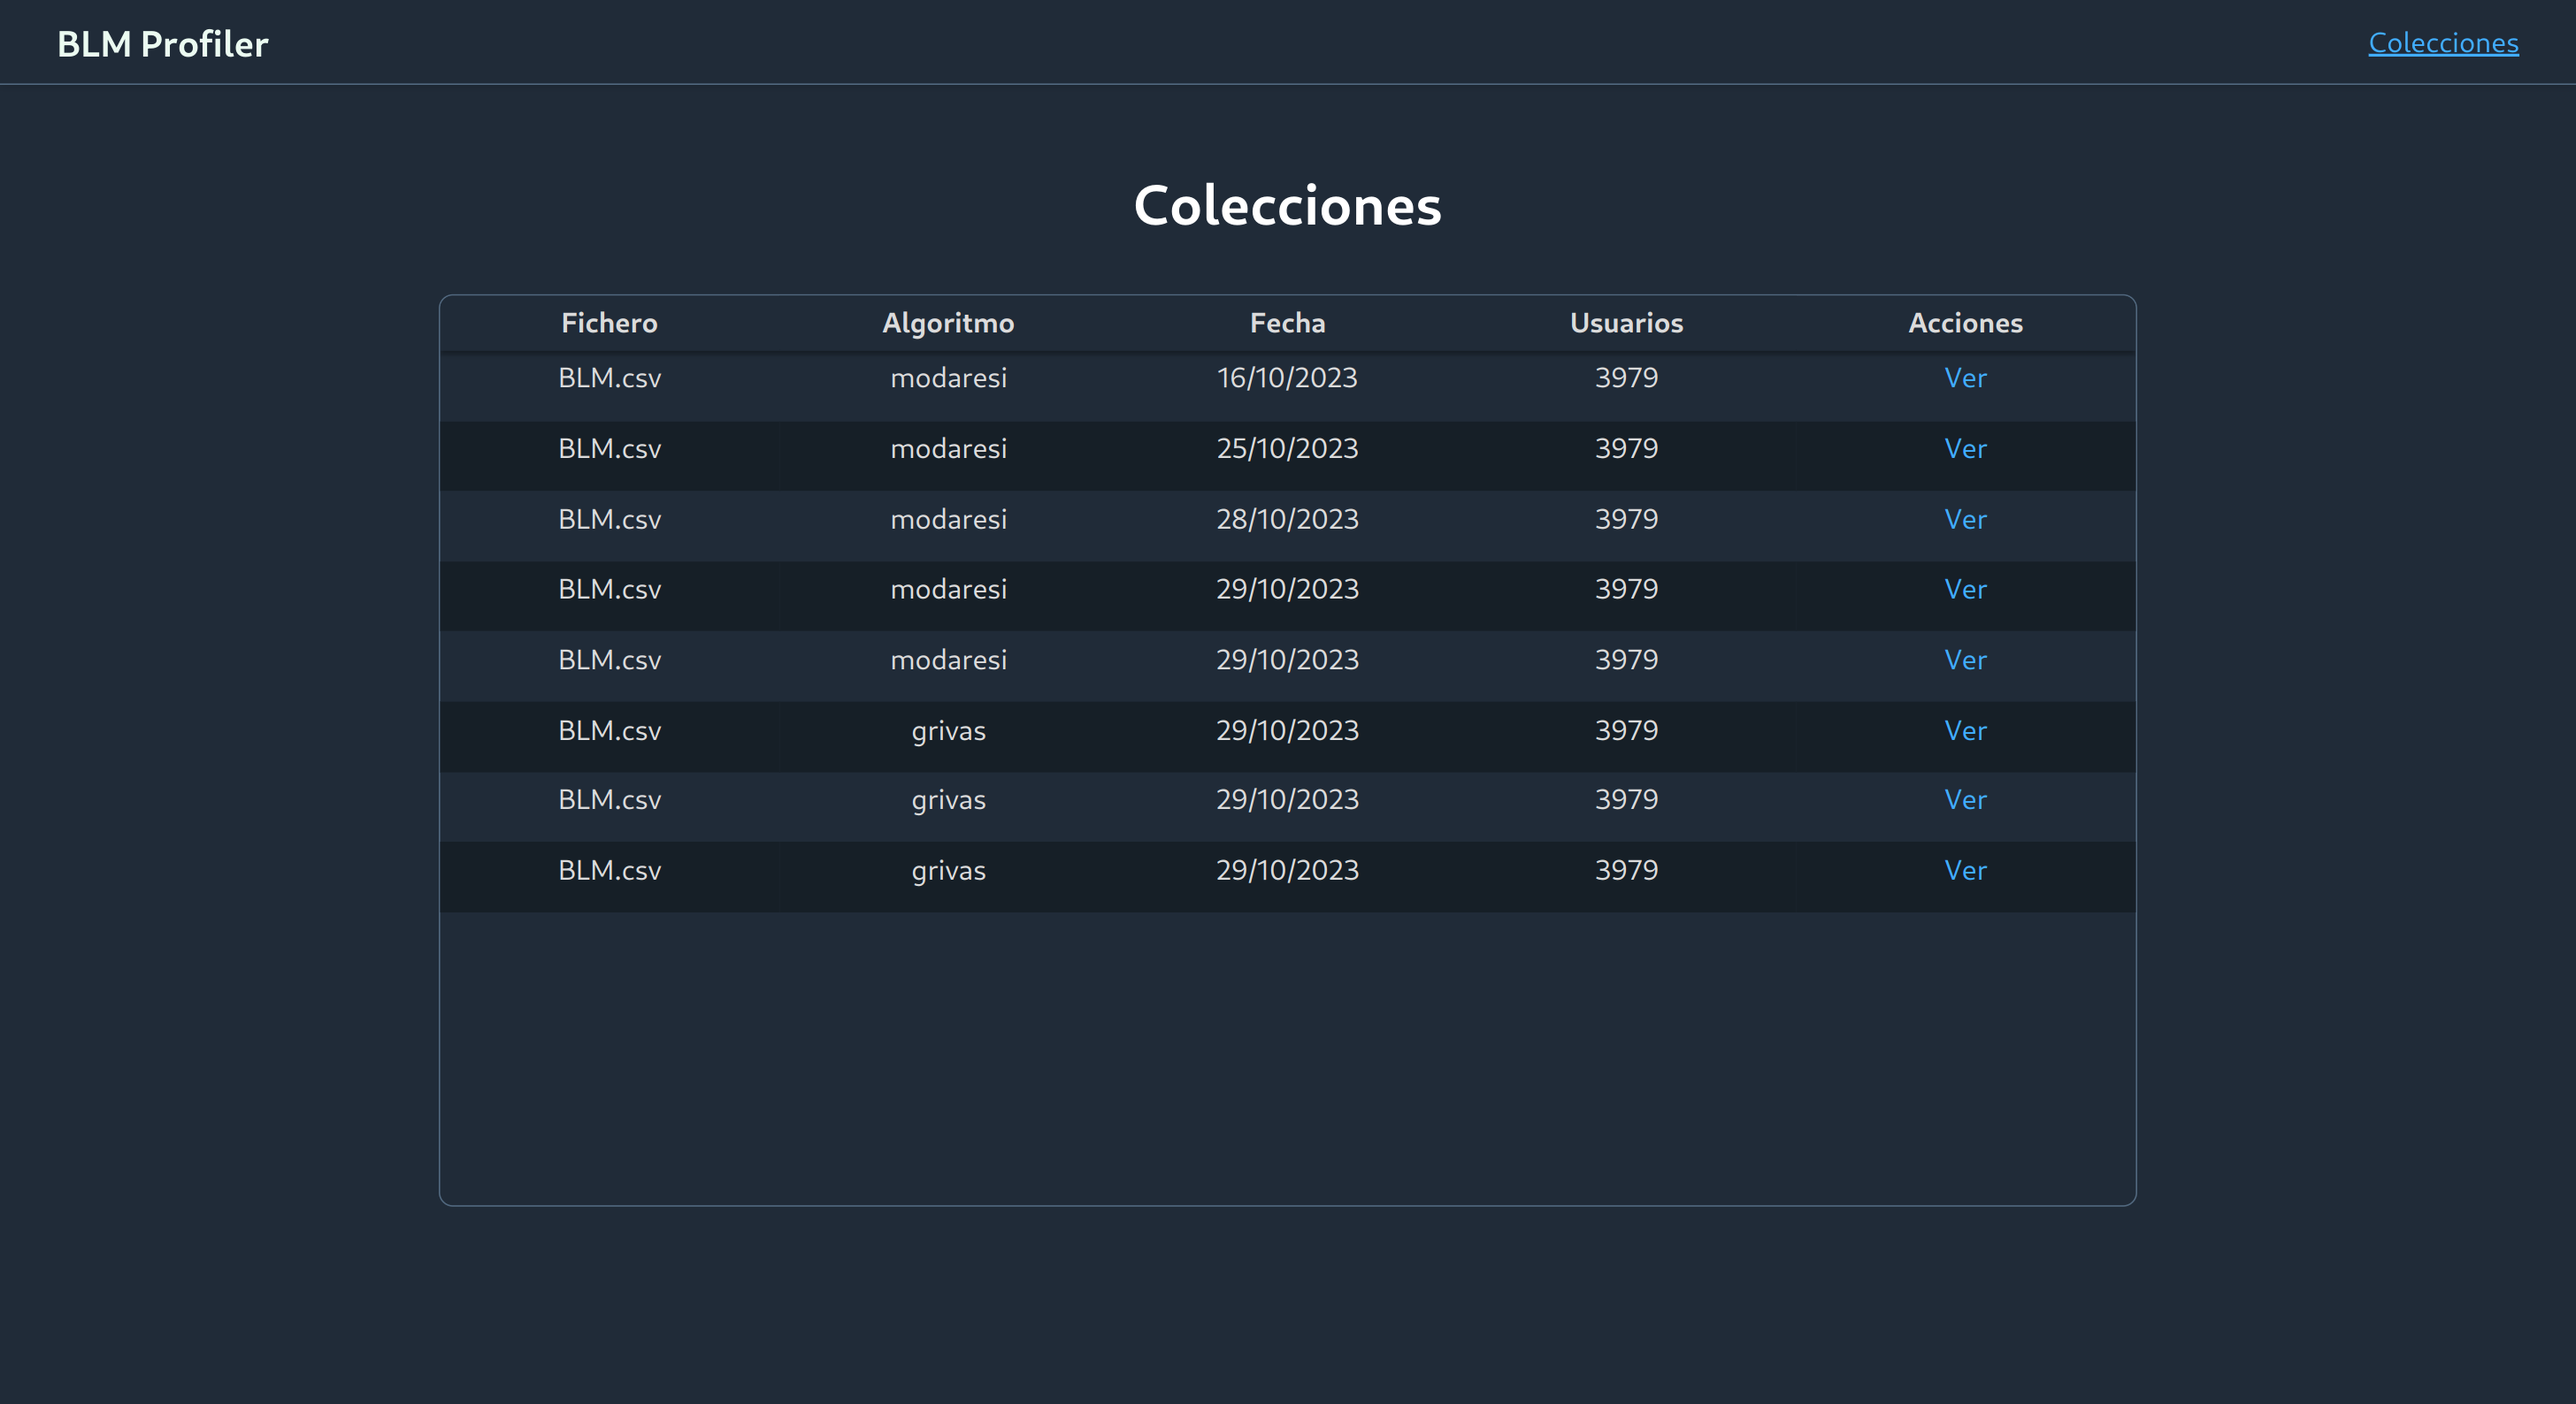
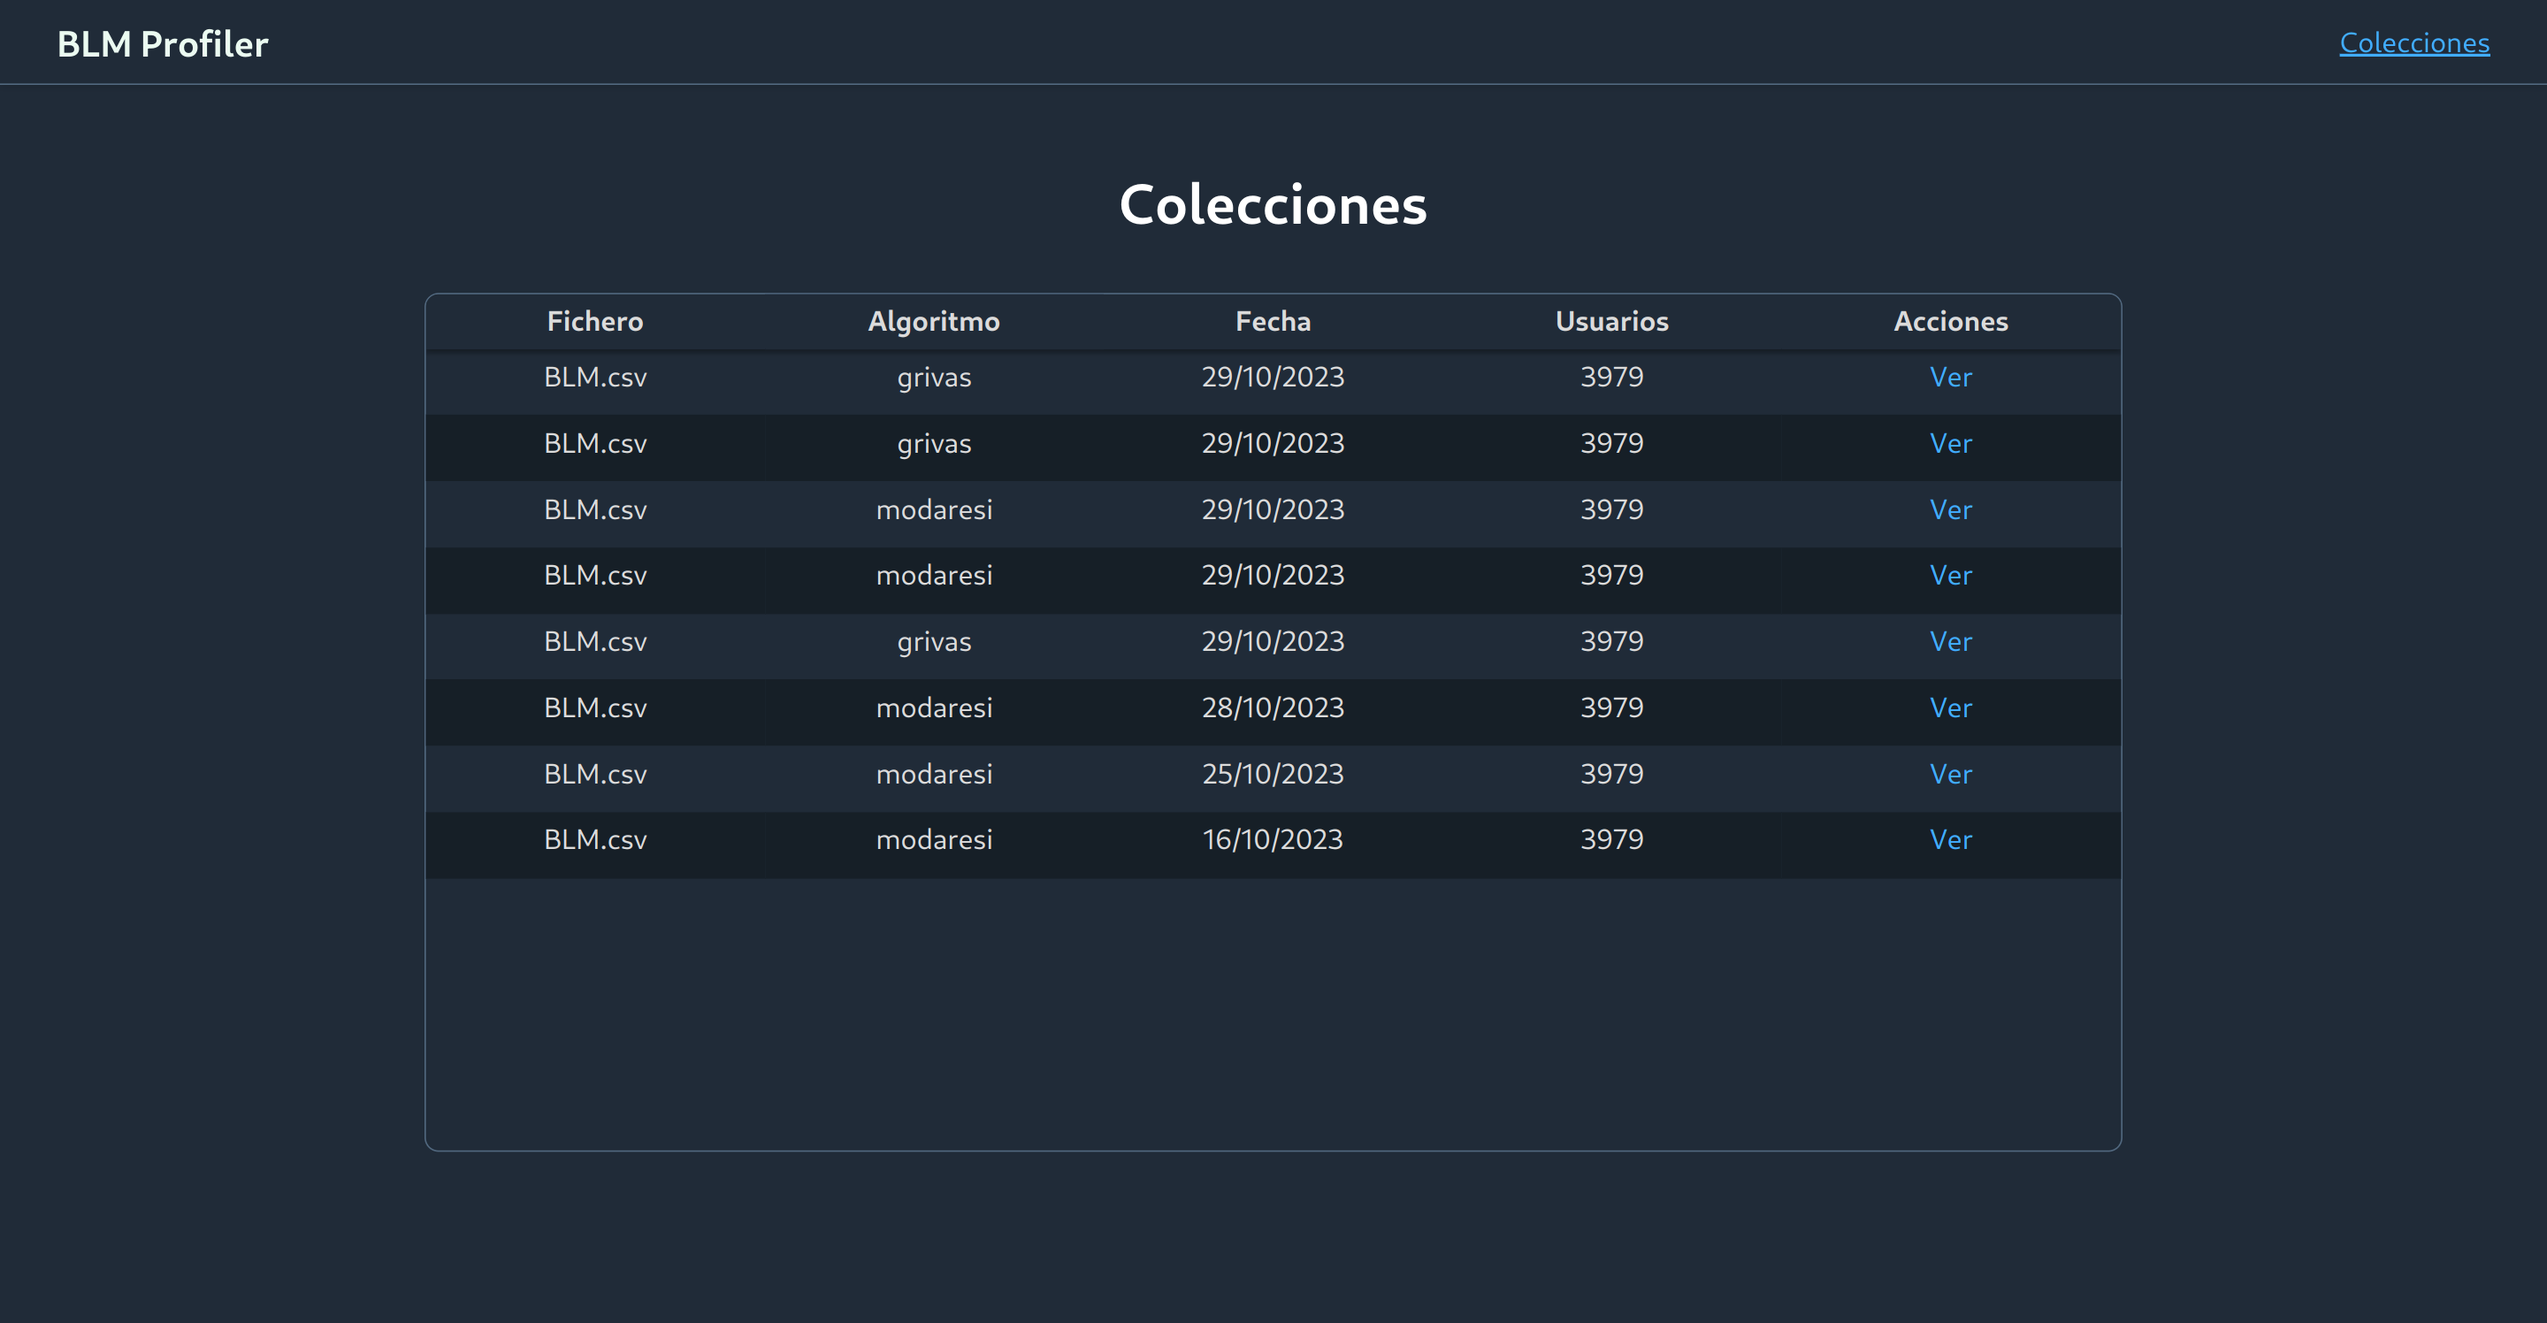
Fast committed

diff --git a/backend/src/model/daos/mongo_collection_dao.py b/backend/src/model/daos/mongo_collection_dao.py
@@ -51,7 +51,7 @@ class Mongo_collection_dao(Collection_dao):
     def get_collections(self) -> list[Collection]:
         try:
             collections = self.collection.find({}).sort(
-                'fecha_creacion', pymongo.ASCENDING)
+                'fecha_creacion', pymongo.DESCENDING)
             collections = list(collections)
 
             return list(map(lambda collection: Collection(
